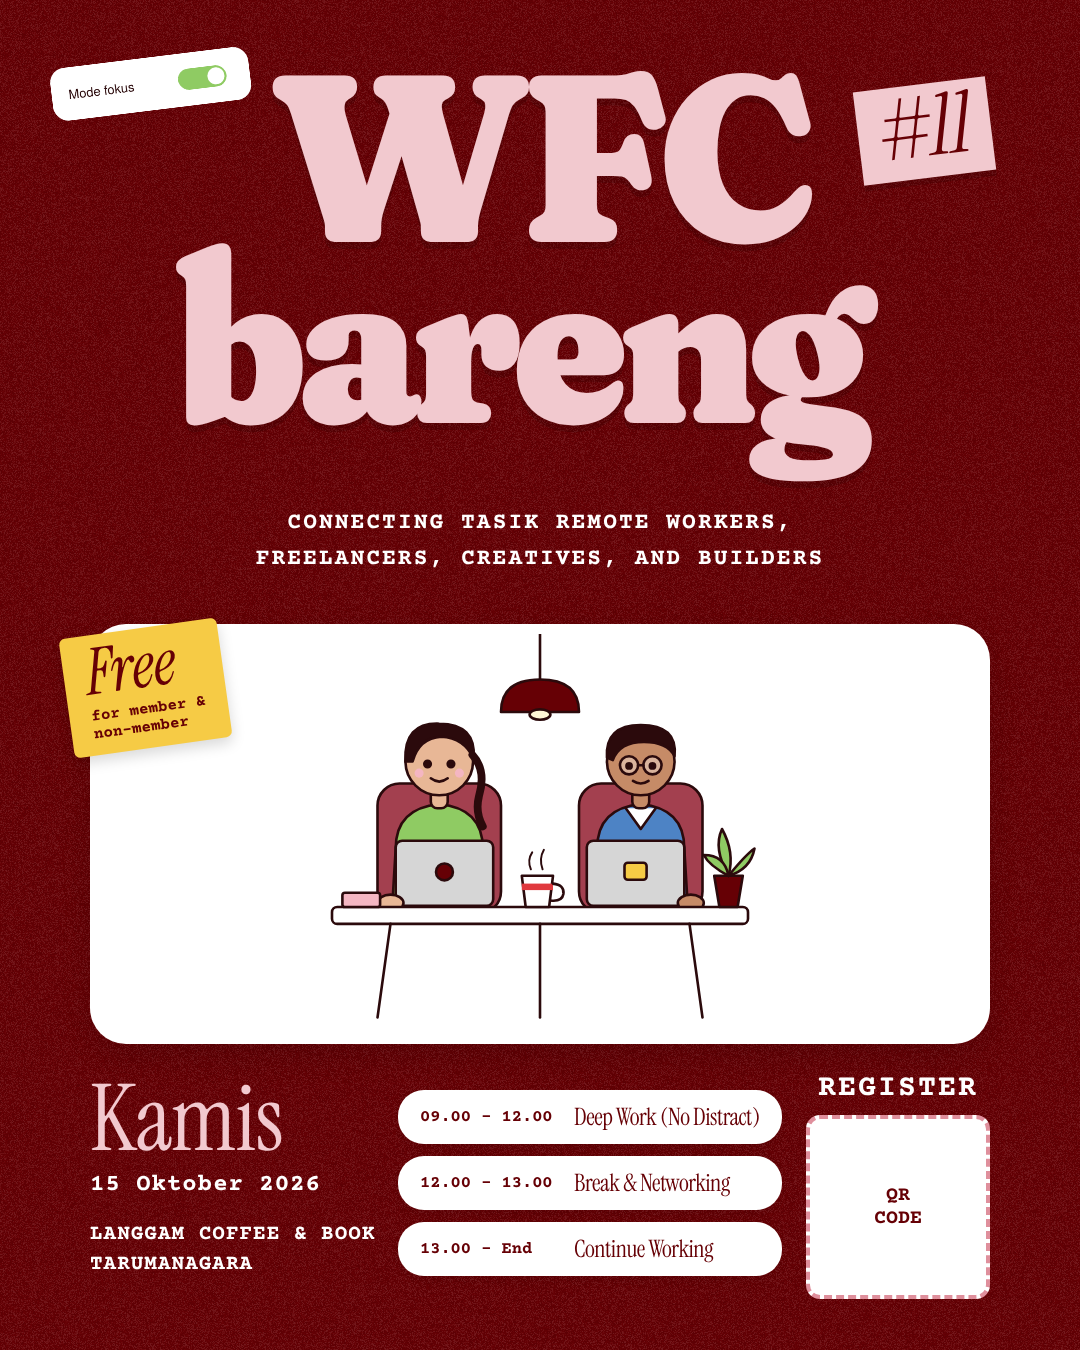
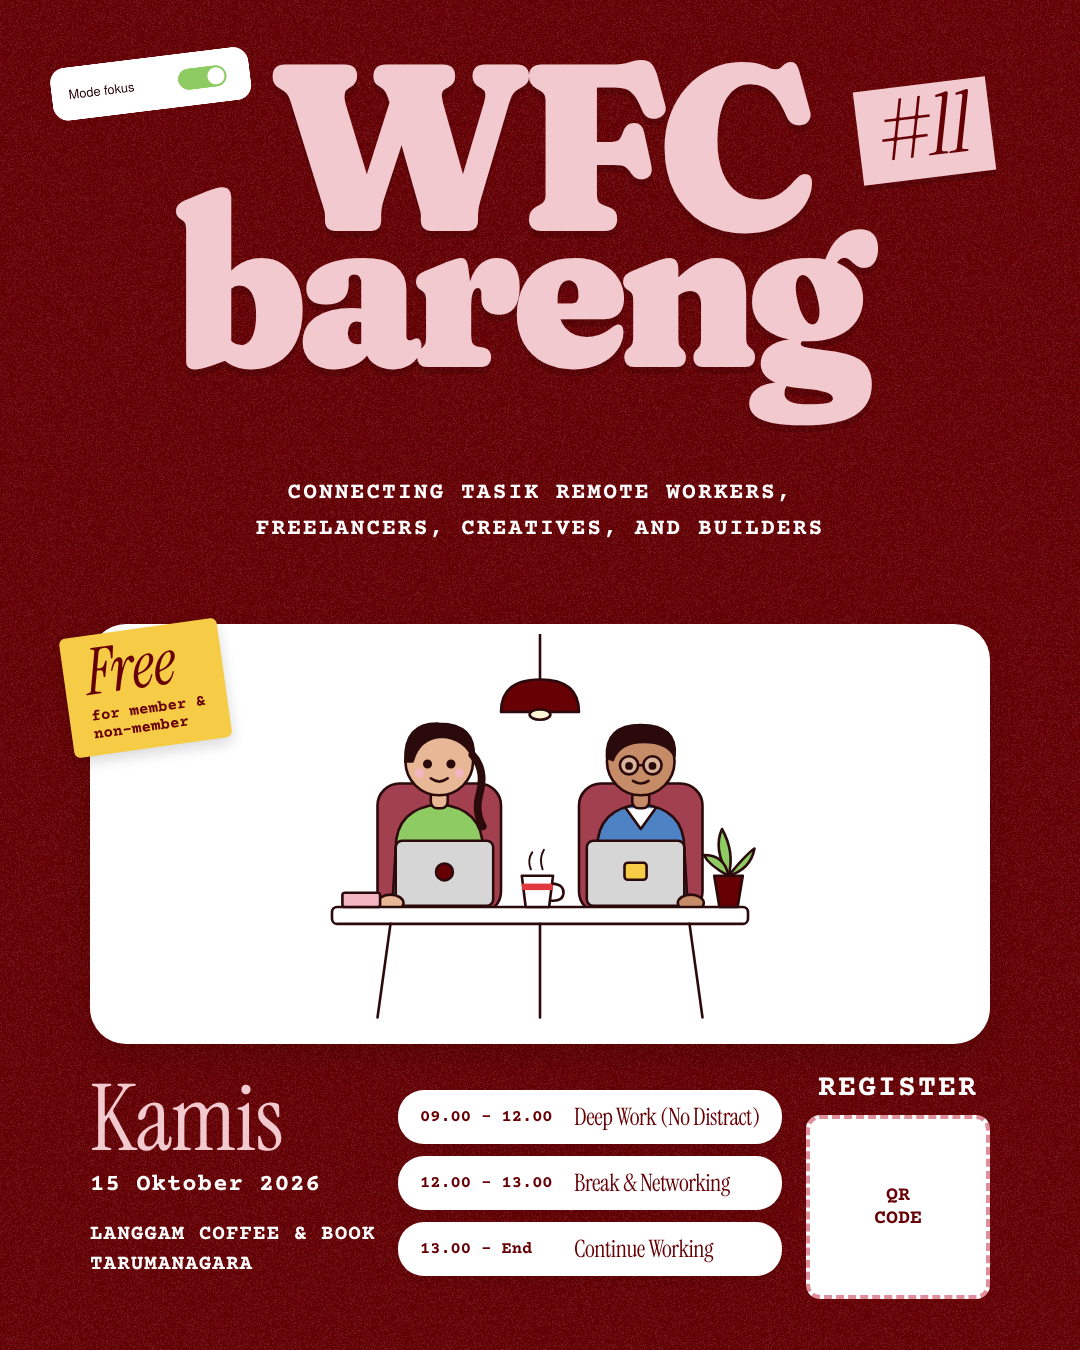
Tighter WFC bareng title spacing; add website www.wfcditasik.com
Claude-Session: https://claude.ai/code/session_01PYAFn8ft4nKeCr1swPnjKW

Changed region(s): [[0.1528, 0.0311, 0.825, 0.4356], [0.1528, 0.1244, 0.2139, 0.2178]]

diff --git a/tools/build_wfcbareng_poster.py b/tools/build_wfcbareng_poster.py
@@ -93,8 +93,8 @@ def poster(n, date, t, ill, qr):
     qr_html = (f'<img src="file://{os.path.abspath(qr)}" style="width:184px; height:184px; display:block; background:#fff; padding:10px; border-radius:14px;">' if qr else
                f'<div class="mono" style="width:184px; height:184px; background:#FFFFFF; border:4px dashed #DF8F9C; border-radius:14px; color:{RED}; display:flex; align-items:center; justify-content:center; text-align:center; font-size:20px; font-weight:700;">QR<br>CODE</div>')
     return f"""<div class="slide"><div class="grain"></div>
-  <div class="abs tt" style="left:0; width:1080px; top:66px; text-align:center; font-size:238px; line-height:.76; letter-spacing:-7px;">WFC<br><span style="margin-left:-40px;">bareng</span></div>
-  <div class="abs mono" style="left:0; width:1080px; top:506px; text-align:center; font-size:23px; font-weight:700; letter-spacing:2px; line-height:1.55;">CONNECTING TASIK REMOTE WORKERS,<br>FREELANCERS, CREATIVES, AND BUILDERS</div>
+  <div class="abs tt" style="left:0; width:1080px; top:78px; text-align:center; font-size:238px; line-height:.57; letter-spacing:-7px;">WFC<br><span style="margin-left:-40px;">bareng</span></div>
+  <div class="abs mono" style="left:0; width:1080px; top:476px; text-align:center; font-size:23px; font-weight:700; letter-spacing:2px; line-height:1.55;">CONNECTING TASIK REMOTE WORKERS,<br>FREELANCERS, CREATIVES, AND BUILDERS</div>
   <div class="abs" style="left:858px; top:84px; transform:rotate(-7deg); background:{t['title']}; color:{t['bg']}; padding:2px 20px 8px; box-shadow:0 6px 0 rgba(0,0,0,.13);"><span class="serif" style="font-size:84px; line-height:1;"><i>#{n}</i></span></div>
   {st('ui-accents/png/toggle-mode-fokus-green.png', 46, 52, 210, -7)}
   <div class="card" style="left:90px; top:624px; width:900px; height:420px; border-radius:36px;"></div>
